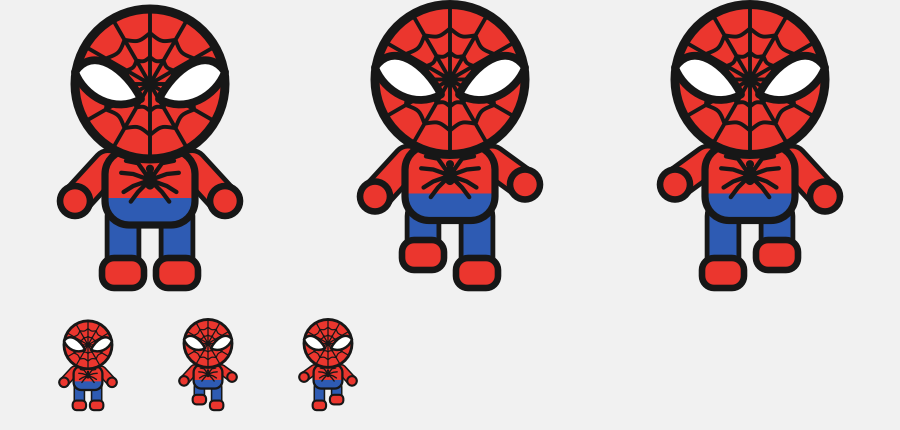
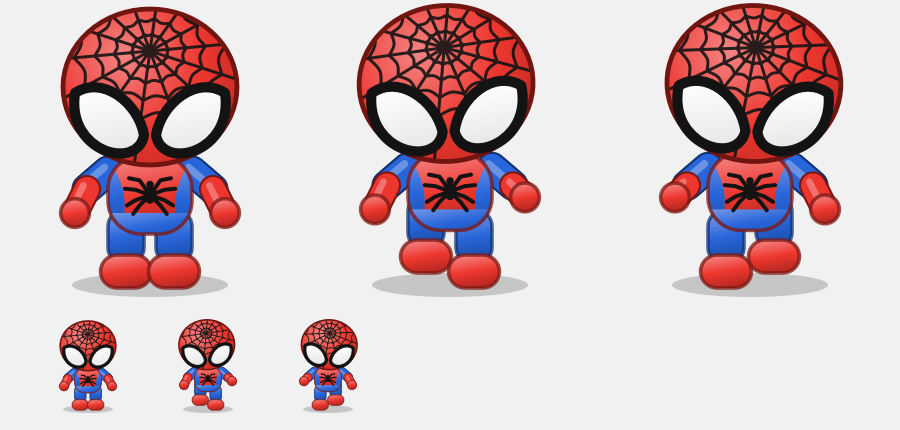
Step 2: nuovo stile pupazzetto di vinile con sfumature e ombra

diff --git a/Sources/Spidy/SpidyArt.swift b/Sources/Spidy/SpidyArt.swift
@@ -6,11 +6,12 @@ enum SpidyPose {
     case stepRight
 }
 
-/// Disegno vettoriale di Spidy, in uno spazio 100x100 scalato sul rettangolo richiesto.
+/// Disegno vettoriale di Spidy in stile "pupazzetto di vinile": forme morbide, sfumature, testa enorme.
+/// Il disegno vive in uno spazio 100x100 che viene scalato sul rettangolo richiesto.
 enum SpidyArt {
-    static let red = NSColor(calibratedRed: 0.89, green: 0.12, blue: 0.14, alpha: 1)
-    static let blue = NSColor(calibratedRed: 0.14, green: 0.27, blue: 0.64, alpha: 1)
-    static let ink = NSColor(calibratedWhite: 0.07, alpha: 1)
+    static let red = NSColor(calibratedRed: 0.90, green: 0.12, blue: 0.14, alpha: 1)
+    static let blue = NSColor(calibratedRed: 0.12, green: 0.30, blue: 0.82, alpha: 1)
+    static let ink = NSColor(calibratedWhite: 0.06, alpha: 1)
 
     static func draw(_ pose: SpidyPose, in rect: NSRect) {
         NSGraphicsContext.saveGraphicsState()
@@ -24,84 +25,143 @@ enum SpidyArt {
         let leftLift: CGFloat
         let rightLift: CGFloat
         let bob: CGFloat
+        let tilt: CGFloat   // inclinazione della testa, in gradi
         switch pose {
-        case .idle:      (leftLift, rightLift, bob) = (0, 0, 0)
-        case .stepLeft:  (leftLift, rightLift, bob) = (6, 0, 1.5)
-        case .stepRight: (leftLift, rightLift, bob) = (0, 6, 1.5)
+        case .idle:      (leftLift, rightLift, bob, tilt) = (0, 0, 0, 0)
+        case .stepLeft:  (leftLift, rightLift, bob, tilt) = (5, 0, 1.2, 3)
+        case .stepRight: (leftLift, rightLift, bob, tilt) = (0, 5, 1.2, -3)
         }
 
-        // Gambe e stivali: restano a terra, solo il piede alzato si muove.
-        drawLeg(x: 41, lift: leftLift)
-        drawLeg(x: 59, lift: rightLift)
+        drawGroundShadow()
 
-        // Tutto il resto fa un piccolo rimbalzo mentre cammina.
+        // Gambe: restano a terra, si alza solo il piede del passo.
+        drawLeg(x: 42, lift: leftLift)
+        drawLeg(x: 58, lift: rightLift)
+
+        // Il resto rimbalza leggermente mentre cammina.
         let upper = NSAffineTransform()
         upper.translateX(by: 0, yBy: bob)
         upper.concat()
 
-        // Braccia (dietro al busto): quella opposta alla gamba alzata va in avanti.
-        drawArm(from: NSPoint(x: 36, y: 45), to: NSPoint(x: 25, y: 33 + (pose == .stepRight ? 4 : 0)))
-        drawArm(from: NSPoint(x: 64, y: 45), to: NSPoint(x: 75, y: 33 + (pose == .stepLeft ? 4 : 0)))
+        // Braccia: quella opposta alla gamba alzata va in avanti.
+        drawArm(side: -1, handLift: pose == .stepRight ? 4 : 0)
+        drawArm(side: 1, handLift: pose == .stepLeft ? 4 : 0)
 
         drawTorso()
+
+        // La testa si inclina un po' da una parte e dall'altra, attorno al collo.
+        let head = NSAffineTransform()
+        head.translateX(by: 50, yBy: 46)
+        head.rotate(byDegrees: tilt)
+        head.translateX(by: -50, yBy: -46)
+        head.concat()
         drawHead()
+    }
+
+    // MARK: - Utilità
+
+    private static func shade(_ base: NSColor, light: CGFloat = 0.35, dark: CGFloat = 0.32) -> (light: NSColor, dark: NSColor) {
+        (base.highlight(withLevel: light) ?? base, base.shadow(withLevel: dark) ?? base)
+    }
+
+    /// Riempie un tracciato con una sfumatura dall'alto verso il basso, più un contorno morbido dello stesso colore scurito.
+    private static func fillShaded(_ path: NSBezierPath, _ base: NSColor, radial: Bool = false, edge: CGFloat = 1.2) {
+        let (light, dark) = shade(base)
+        let gradient = NSGradient(colors: [light, base, dark], atLocations: [0, 0.5, 1], colorSpace: .deviceRGB)!
+        if radial {
+            gradient.draw(in: path, relativeCenterPosition: NSPoint(x: -0.3, y: 0.4))
+        } else {
+            gradient.draw(in: path, angle: -80)
+        }
+        if edge > 0 {
+            (base.shadow(withLevel: 0.55) ?? base).withAlphaComponent(0.75).setStroke()
+            path.lineWidth = edge
+            path.stroke()
+        }
+    }
+
+    private static func point(_ c: NSPoint, _ rx: CGFloat, _ ry: CGFloat, _ r: CGFloat, _ angle: CGFloat) -> NSPoint {
+        NSPoint(x: c.x + r * rx * cos(angle), y: c.y + r * ry * sin(angle))
     }
 
     // MARK: - Parti del corpo
 
-    private static func limb(from a: NSPoint, to b: NSPoint, width: CGFloat, color: NSColor) {
-        let outline = NSBezierPath()
-        outline.move(to: a)
-        outline.line(to: b)
-        outline.lineCapStyle = .round
-
-        outline.lineWidth = width + 3.2
-        ink.setStroke()
-        outline.stroke()
-
-        outline.lineWidth = width
-        color.setStroke()
-        outline.stroke()
+    private static func drawGroundShadow() {
+        NSColor.black.withAlphaComponent(0.18).setFill()
+        NSBezierPath(ovalIn: NSRect(x: 24, y: 1, width: 52, height: 8)).fill()
     }
 
     private static func drawLeg(x: CGFloat, lift: CGFloat) {
-        limb(from: NSPoint(x: x, y: 28), to: NSPoint(x: x, y: 13 + lift), width: 9, color: blue)
-        // Stivale
-        let boot = NSBezierPath(roundedRect: NSRect(x: x - 7, y: 4 + lift, width: 14, height: 10), xRadius: 4, yRadius: 4)
-        red.setFill()
-        boot.fill()
-        ink.setStroke()
-        boot.lineWidth = 2.2
-        boot.stroke()
+        let leg = NSBezierPath(roundedRect: NSRect(x: x - 6, y: 12 + lift, width: 12, height: 18), xRadius: 5.5, yRadius: 5.5)
+        fillShaded(leg, blue)
+
+        // Stivaletto rosso, un po' più largo, con la punta in fuori.
+        let boot = NSBezierPath(roundedRect: NSRect(x: x - 8.5, y: 4 + lift, width: 17, height: 11), xRadius: 5.5, yRadius: 5.5)
+        fillShaded(boot, red)
     }
 
-    private static func drawArm(from shoulder: NSPoint, to hand: NSPoint) {
-        limb(from: shoulder, to: hand, width: 8, color: red)
-        let glove = NSBezierPath(ovalIn: NSRect(x: hand.x - 5, y: hand.y - 5, width: 10, height: 10))
-        red.setFill()
-        glove.fill()
-        ink.setStroke()
-        glove.lineWidth = 2.2
-        glove.stroke()
+    private static func drawArm(side: CGFloat, handLift: CGFloat) {
+        let shoulder = NSPoint(x: 50 + side * 14, y: 43)
+        let elbow = NSPoint(x: 50 + side * 21, y: 37)
+        let hand = NSPoint(x: 50 + side * 25, y: 29 + handLift)
+
+        func stroke(_ a: NSPoint, _ b: NSPoint, width: CGFloat, color: NSColor) {
+            let path = NSBezierPath()
+            path.move(to: a)
+            path.line(to: b)
+            path.lineCapStyle = .round
+
+            path.lineWidth = width + 1.4
+            (color.shadow(withLevel: 0.55) ?? color).setStroke()
+            path.stroke()
+
+            path.lineWidth = width
+            color.setStroke()
+            path.stroke()
+
+            // Riflesso di luce sul lato alto-sinistra
+            let hi = NSBezierPath()
+            hi.move(to: NSPoint(x: a.x - 1.2, y: a.y + 1.2))
+            hi.line(to: NSPoint(x: b.x - 1.2, y: b.y + 1.2))
+            hi.lineCapStyle = .round
+            hi.lineWidth = width * 0.28
+            (color.highlight(withLevel: 0.5) ?? color).withAlphaComponent(0.55).setStroke()
+            hi.stroke()
+        }
+
+        stroke(shoulder, elbow, width: 9, color: blue)     // parte alta del braccio blu
+        stroke(elbow, hand, width: 8, color: red)          // avambraccio rosso
+        let glove = NSBezierPath(ovalIn: NSRect(x: hand.x - 4.8, y: hand.y - 4.8, width: 9.6, height: 9.6))
+        fillShaded(glove, red)
     }
 
     private static func drawTorso() {
-        let torso = NSBezierPath(roundedRect: NSRect(x: 35, y: 25, width: 30, height: 25), xRadius: 8, yRadius: 8)
-        red.setFill()
-        torso.fill()
+        let torso = NSBezierPath(roundedRect: NSRect(x: 36, y: 22, width: 28, height: 26), xRadius: 11, yRadius: 11)
+        fillShaded(torso, red, edge: 0)
 
-        // Parte bassa blu
         NSGraphicsContext.saveGraphicsState()
         torso.addClip()
-        blue.setFill()
-        NSRect(x: 35, y: 25, width: 30, height: 9).fill()
+        // Fianchi blu e fascia bassa blu, come nel costume.
+        let (light, dark) = shade(blue)
+        let side = NSGradient(colors: [light, blue, dark], atLocations: [0, 0.5, 1], colorSpace: .deviceRGB)!
+        for flip: CGFloat in [-1, 1] {
+            let panel = NSBezierPath()
+            panel.move(to: NSPoint(x: 50 + flip * 15, y: 49))
+            panel.curve(to: NSPoint(x: 50 + flip * 8.5, y: 31), controlPoint1: NSPoint(x: 50 + flip * 12, y: 44), controlPoint2: NSPoint(x: 50 + flip * 8, y: 38))
+            panel.line(to: NSPoint(x: 50 + flip * 8.5, y: 20))
+            panel.line(to: NSPoint(x: 50 + flip * 15, y: 20))
+            panel.close()
+            side.draw(in: panel, angle: -80)
+        }
+        let belt = NSBezierPath(rect: NSRect(x: 30, y: 20, width: 40, height: 9))
+        side.draw(in: belt, angle: -80)
         NSGraphicsContext.restoreGraphicsState()
 
-        ink.setStroke()
-        torso.lineWidth = 2.4
+        (red.shadow(withLevel: 0.55) ?? red).withAlphaComponent(0.75).setStroke()
+        torso.lineWidth = 1.2
         torso.stroke()
 
-        drawChestSpider(at: NSPoint(x: 50, y: 40))
+        drawChestSpider(at: NSPoint(x: 50, y: 35))
     }
 
     private static func drawChestSpider(at c: NSPoint) {
@@ -109,17 +169,16 @@ enum SpidyArt {
         defer { NSGraphicsContext.restoreGraphicsState() }
         let shrink = NSAffineTransform()
         shrink.translateX(by: c.x, yBy: c.y)
-        shrink.scaleX(by: 0.8, yBy: 0.8)
+        shrink.scaleX(by: 0.7, yBy: 0.7)
         shrink.translateX(by: -c.x, yBy: -c.y)
         shrink.concat()
 
         ink.setStroke()
         ink.setFill()
         let legs = NSBezierPath()
-        legs.lineWidth = 1.8
+        legs.lineWidth = 1.9
         legs.lineCapStyle = .round
         legs.lineJoinStyle = .round
-        // Quattro zampe per lato, con il "ginocchio" verso l'esterno.
         let reach: [(knee: NSPoint, tip: NSPoint)] = [
             (NSPoint(x: 5, y: 7), NSPoint(x: 10, y: 8)),
             (NSPoint(x: 7, y: 2.5), NSPoint(x: 12, y: 3)),
@@ -134,45 +193,46 @@ enum SpidyArt {
             }
         }
         legs.stroke()
-        NSBezierPath(ovalIn: NSRect(x: c.x - 2.6, y: c.y - 4, width: 5.2, height: 8)).fill()
-        NSBezierPath(ovalIn: NSRect(x: c.x - 1.7, y: c.y + 3, width: 3.4, height: 3.4)).fill()
+        NSBezierPath(ovalIn: NSRect(x: c.x - 2.8, y: c.y - 4.2, width: 5.6, height: 8.4)).fill()
+        NSBezierPath(ovalIn: NSRect(x: c.x - 1.8, y: c.y + 3.2, width: 3.6, height: 3.6)).fill()
     }
 
     private static func drawHead() {
-        let center = NSPoint(x: 50, y: 72)
-        let radius: CGFloat = 25
-        let head = NSBezierPath(ovalIn: NSRect(x: center.x - radius, y: center.y - radius, width: radius * 2, height: radius * 2))
+        let center = NSPoint(x: 50, y: 71)
+        let rx: CGFloat = 29
+        let ry: CGFloat = 26
+        let head = NSBezierPath(ovalIn: NSRect(x: center.x - rx, y: center.y - ry, width: rx * 2, height: ry * 2))
+        fillShaded(head, red, radial: true, edge: 0)
 
-        red.setFill()
-        head.fill()
-
-        // Ragnatela, tagliata sul contorno della testa.
+        // Ragnatela sottile, tagliata sul contorno della testa. Il centro è alto, sopra gli occhi.
         NSGraphicsContext.saveGraphicsState()
         head.addClip()
-        ink.setStroke()
+        let hub = NSPoint(x: 50, y: 83)
+        ink.withAlphaComponent(0.9).setStroke()
 
         let web = NSBezierPath()
-        web.lineWidth = 1.3
-        let spokes = 12
+        web.lineWidth = 1.0
+        web.lineCapStyle = .round
+        let spokes = 14
         for i in 0..<spokes {
-            let a = CGFloat(i) * 2 * .pi / CGFloat(spokes)
-            web.move(to: center)
-            web.line(to: point(center, radius + 4, a))
+            let a = CGFloat(i) * 2 * .pi / CGFloat(spokes) + 0.1
+            web.move(to: hub)
+            web.line(to: point(hub, rx, ry, 1.5, a))
         }
-        for r: CGFloat in [9, 17] {
+        for r: CGFloat in [0.22, 0.42, 0.64, 0.88] {
             for i in 0..<spokes {
-                let a0 = CGFloat(i) * 2 * .pi / CGFloat(spokes)
-                let a1 = CGFloat(i + 1) * 2 * .pi / CGFloat(spokes)
-                let mid = point(center, r * 0.85, (a0 + a1) / 2)
-                web.move(to: point(center, r, a0))
-                web.curve(to: point(center, r, a1), controlPoint1: mid, controlPoint2: mid)
+                let a0 = CGFloat(i) * 2 * .pi / CGFloat(spokes) + 0.1
+                let a1 = CGFloat(i + 1) * 2 * .pi / CGFloat(spokes) + 0.1
+                let mid = point(hub, rx, ry, r * 0.88, (a0 + a1) / 2)
+                web.move(to: point(hub, rx, ry, r, a0))
+                web.curve(to: point(hub, rx, ry, r, a1), controlPoint1: mid, controlPoint2: mid)
             }
         }
         web.stroke()
         NSGraphicsContext.restoreGraphicsState()
 
-        ink.setStroke()
-        head.lineWidth = 3
+        (red.shadow(withLevel: 0.6) ?? red).setStroke()
+        head.lineWidth = 1.6
         head.stroke()
 
         drawEye(mirrored: false)
@@ -182,22 +242,19 @@ enum SpidyArt {
     private static func drawEye(mirrored: Bool) {
         func p(_ x: CGFloat, _ y: CGFloat) -> NSPoint { NSPoint(x: mirrored ? 100 - x : x, y: y + 3) }
 
-        // Occhio a mandorla inclinato verso il naso, come nel logo.
+        // Occhio grande e tondo, inclinato verso il naso: angolo esterno alto, angolo interno basso.
         let eye = NSBezierPath()
-        eye.move(to: p(25, 73))
-        eye.curve(to: p(47, 64), controlPoint1: p(31, 82), controlPoint2: p(42, 74))
-        eye.curve(to: p(25, 73), controlPoint1: p(38, 59), controlPoint2: p(28, 65))
+        eye.move(to: p(25, 66))
+        eye.curve(to: p(48, 52), controlPoint1: p(34, 72), controlPoint2: p(46, 63))
+        eye.curve(to: p(25, 66), controlPoint1: p(46, 40), controlPoint2: p(22, 46))
         eye.close()
 
-        NSColor.white.setFill()
-        eye.fill()
+        let gradient = NSGradient(colors: [NSColor.white, NSColor(calibratedWhite: 0.88, alpha: 1)])!
+        gradient.draw(in: eye, angle: -80)
+
         ink.setStroke()
-        eye.lineWidth = 2.6
+        eye.lineWidth = 3.4
         eye.lineJoinStyle = .round
         eye.stroke()
-    }
-
-    private static func point(_ c: NSPoint, _ r: CGFloat, _ angle: CGFloat) -> NSPoint {
-        NSPoint(x: c.x + r * cos(angle), y: c.y + r * sin(angle))
     }
 }
